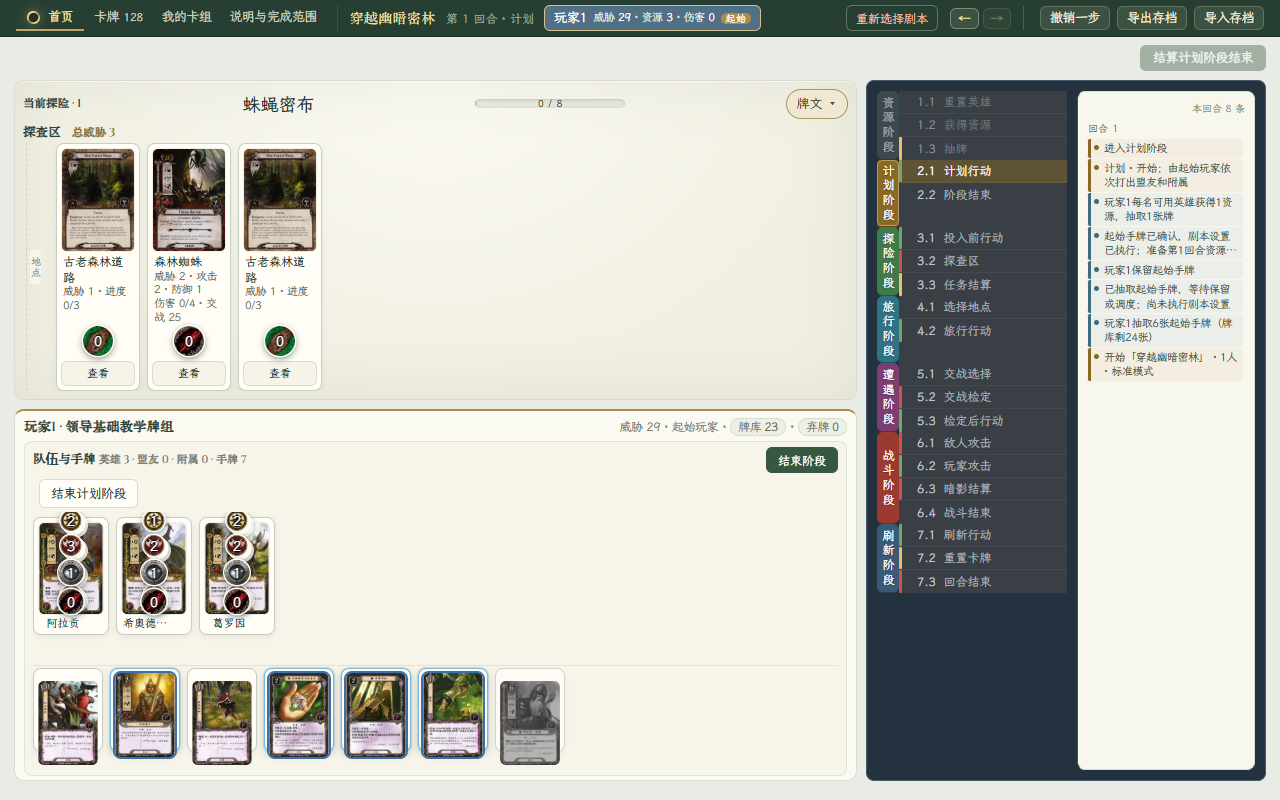
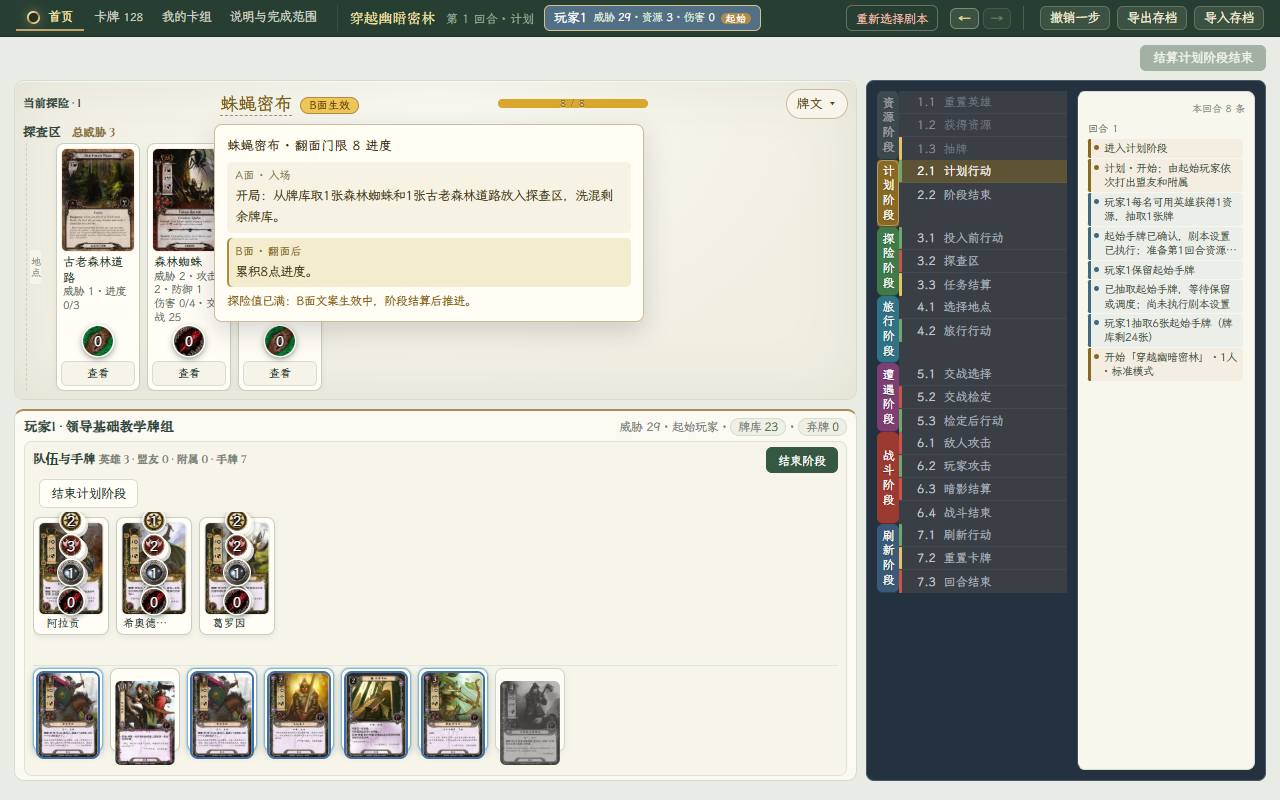
v0.15.90: 探险卡名悬浮牌文卡——悬停看两面文案，翻面达成亮金徽章
- 卡名（收起条+展开态标题）包进 .quest-name：悬停/键盘聚焦向下弹出 .quest-tip，
  展示卡名+翻面门限+A面入场+B面翻面后+状态行，当前生效面高亮；aria-label 带完整两面牌文
- 翻面条件（进度≥门限）达成时：迷你进度条转金（.full）+ 卡名旁「B面生效」金徽章
  + 悬浮卡状态行「探险值已满：B面文案生效中」+ 展开态金句
- 裁剪修复：public-table overflow-y:auto → 悬浮卡向下弹；29 段矮屏 overflow:hidden
  收窄到展开态（:not(.quest-collapsed)）；36 段 strong 省略号去掉 overflow:hidden
- check-table-slim 增补 E 组 5 项/档（真实悬停读几何）共 92 项；DOM 新用例 1 条；测试 499 项全过

diff --git a/index.html b/index.html
@@ -975,7 +975,7 @@ body:has(.desktop-table) .player-tabs button{height:36px;min-height:0;padding:2p
 /* 29. 矮屏探险区硬上限：卡片 54px 宽 → 76px 高 + 标题 18 + 进度 9 + 间距 ≈ 110，
        超出即裁掉（牌文与门限说明可点「查看」看全文）。 */
 @media(max-height:980px){
- .quest-zone{max-height:108px;overflow:hidden}
+ .quest-zone:not(.quest-collapsed){max-height:108px;overflow:hidden}
  .quest-display{align-items:center}
  .quest-zone .zone-heading{min-height:0}
 }
@@ -2009,7 +2009,7 @@ body:has(.desktop-table) .player-tabs button{height:36px;min-height:0;padding:2p
 .public-table>.quest-zone{flex:0 0 auto;min-height:0}
 .quest-collapsed .zone-heading{margin-bottom:0}
 .quest-head{flex-wrap:nowrap;gap:8px}
-.quest-head strong{min-width:0;white-space:nowrap;overflow:hidden;text-overflow:ellipsis}
+.quest-head strong{min-width:0;white-space:nowrap;overflow:visible}
 .quest-fold{flex:0 0 auto;min-height:0;padding:2px 9px;font-size:11px;line-height:1.5;
  border:1px solid #c9bd9c;border-radius:999px;background:#f7f5ea;color:#5c4a1e;cursor:pointer}
 .quest-fold:hover,.quest-fold:focus-visible{background:#efe8d2;border-color:#a8965f}
@@ -2020,6 +2020,29 @@ body:has(.desktop-table) .player-tabs button{height:36px;min-height:0;padding:2p
  flex:0 0 18px;width:18px;margin:0 5px 0 3px;border-left:1px dashed #cfd3c6}
 .public-table .table-card-row>.row-divider>span{writing-mode:vertical-rl;font-size:9.5px;letter-spacing:1.5px;line-height:1;
  color:#8a9184;background:#f7f5ea;padding:6px 1px;border-radius:2px}
+
+/* 37. v0.15.90 探险卡名悬浮牌文卡 + 翻面状态可视化。
+   悬停/键盘聚焦卡名向下弹出两面文案（public-table 是 overflow-y:auto，
+   向下弹落在表格内部不会被裁；29 段矮屏的 overflow:hidden 已收窄到展开态）。 */
+.quest-name{position:relative;display:inline-block;cursor:help;border-bottom:1px dashed #a8965f;outline:none}
+.quest-name:hover,.quest-name:focus-visible{color:#7a5a12}
+.quest-tip{display:none;position:absolute;z-index:40;top:calc(100% + 9px);left:-6px;
+ width:min(430px,calc(100vw - 64px));padding:10px 12px;text-align:left;white-space:normal;
+ background:#fffdf4;border:1px solid #c9bd9c;border-radius:8px;box-shadow:0 10px 26px #00000026;
+ font-size:12.5px;line-height:1.65;color:#4a3c1c}
+.quest-name:hover .quest-tip,.quest-name:focus-visible .quest-tip{display:block}
+.quest-tip-title{display:block;margin-bottom:6px;font-size:13px;color:#3c2f12;letter-spacing:.02em}
+.quest-tip-side{display:block;padding:5px 8px;border-radius:5px;background:#f6f2e4;margin-bottom:5px}
+.quest-tip-side i{display:block;font-style:normal;font-size:10.5px;letter-spacing:.08em;color:#8a7a4a;margin-bottom:2px}
+.quest-tip-side.on{background:#f3ecce;box-shadow:inset 2px 0 0 #b08d3e}
+.quest-tip-side.on i{color:#8a6a1e;font-weight:700}
+.quest-tip-note{display:block;margin-top:2px;font-size:11.5px;color:#7a6c42}
+.quest-tip-note.flip{color:#8a5a10;font-weight:700}
+.quest-flip-badge{display:inline-block;margin-left:8px;padding:1px 8px;font-size:10.5px;font-weight:700;
+ letter-spacing:.05em;color:#5c3d00;background:#f0c65a;border:1px solid #b08d3e;border-radius:999px;vertical-align:1px}
+.quest-flip-note{display:block;margin-top:6px;font-size:12px;font-weight:700;color:#8a5a10}
+.quest-progress-mini.full .quest-progress-fill{background:#d9a72e}
+.quest-progress-mini.full .quest-progress-label{color:#8a5a10;font-weight:700}
 
 </style></head><body>
 <header><nav><button id="tableTab" class="active nav-home" title="回到首页"><svg class="brand-mark" viewBox="0 0 64 64" aria-hidden="true" focusable="false"><defs><linearGradient id="brandGold" x1="10" y1="8" x2="54" y2="57" gradientUnits="userSpaceOnUse"><stop offset="0" stop-color="#fdf4cd"/><stop offset=".32" stop-color="#e3c47a"/><stop offset=".55" stop-color="#a9853f"/><stop offset=".78" stop-color="#e8cb86"/><stop offset="1" stop-color="#fffae0"/></linearGradient><radialGradient id="brandField" cx=".5" cy=".42" r=".58"><stop offset="0" stop-color="#8a4a16"/><stop offset=".46" stop-color="#4a2a10"/><stop offset="1" stop-color="#150e07"/></radialGradient></defs><circle cx="32" cy="32" r="21" fill="#0d1710" fill-opacity=".62"/><circle cx="32" cy="32" r="21" fill="none" stroke="url(#brandGold)" stroke-width="7"/><path d="M14.6 19.2A21 21 0 0 1 32.6 10.9" fill="none" stroke="#fffbe8" stroke-width="2.4" stroke-linecap="round" opacity=".55"/></svg>首页</button><button id="catalogTab">卡牌 <span>55</span></button><button id="decksTab">我的卡组</button><button id="helpTab">说明与完成范围</button></nav><div class="history-nav"><button id="navBack" type="button" title="后退" aria-label="后退">←</button><button id="navFwd" type="button" title="前进" aria-label="前进">→</button></div><div class="header-actions"><button id="undo">撤销一步</button><button id="export">导出存档</button><label class="button" for="import">导入存档</label><input id="import" type="file" accept="application/json" hidden></div><div id="gameHud" class="game-hud" hidden></div></header>
@@ -11191,7 +11214,7 @@ const WindowUI=(()=>{
 </script><script src="phase-log.js"></script><script>
 /* Tabletop view: UI drafts never pay, exhaust, reveal, or bypass phase validation. */
 /* 界面版本徽标唯一来源：须与 CHANGELOG.md 最新条目标题一致（planning-dom-tests 有校验）。 */
-const APP_VERSION='v0.15.89';
+const APP_VERSION='v0.15.90';
 /* ── 决策面板：一行触发条 + 非模态浮层（v0.15.81）─────────────────────
    形态演进：v0.15.62 浮动弹窗 → v0.15.76/79 内联公共桌面（常驻 96px 内容块）→ v0.15.81
    「一行触发条 + 非模态浮层」。用户报障「阶段窗口还在桌面上」：内联块把 .decide-box 撑到
@@ -11705,22 +11728,45 @@ function dockHTML(s,p,m){
    进度条仍可见；卡图/牌文/门限点「牌文 ▾」展开。开局设置与开局翻牌阶段强制展开
    （那两步必须读剧本牌文）。开合是纯视图操作（app.js 的 questZone 动作翻转
    questZoneOpen），不进撤销历史、不写存档。 */
+/* v0.15.90：探险卡名悬浮牌文卡——悬停或键盘聚焦卡名，向下弹出 A/B 两面文案。
+   翻面条件（进度 ≥ 门限）达成时：迷你进度条转金、卡名旁亮「B面生效」徽章、
+   悬浮卡状态行说明 B 面生效中，展开态再补一句金句。纯视图，不改引擎。 */
+function questFlipReady(s,q){return !!q.points&&s.progress>=q.points;}
+function questTipHTML(s,q){
+ const flip=questFlipReady(s,q);
+ const status=s.setupPending?'开局设置阶段：A面（入场效果）生效。'
+  :flip?'探险值已满：B面文案生效中，阶段结算后推进。'
+  :(q.points?'累积 '+q.points+' 点进度后翻面，B面文案生效。':'特殊胜利条件，无进度门限。');
+ return '<span class="quest-tip" role="tooltip">'
+  +'<b class="quest-tip-title">'+esc(q.name)+(q.points?' · 翻面门限 '+q.points+' 进度':' · 特殊胜利条件')+'</b>'
+  +'<span class="quest-tip-side'+(s.setupPending?' on':'')+'"><i>A面 · 入场</i>'+esc(q.front)+'</span>'
+  +'<span class="quest-tip-side'+(!s.setupPending?' on':'')+'"><i>B面 · 翻面后</i>'+esc(q.back)+'</span>'
+  +'<span class="quest-tip-note'+(flip?' flip':'')+'">'+esc(status)+'</span></span>';
+}
+function questNameHTML(s,q){
+ const flip=questFlipReady(s,q);
+ return '<span class="quest-name" tabindex="0" aria-label="'+esc(q.name+'。A面入场：'+q.front+'。B面翻面后：'+q.back)+'">'
+  +esc(q.name)+questTipHTML(s,q)+'</span>'
+  +(flip?'<b class="quest-flip-badge">B面生效</b>':'');
+}
 function questZoneHTML(s,q,m){
  const open=s.setupPending||setupPendingReveal(s)||questZoneOpenFlag();
+ const flip=questFlipReady(s,q);
  const fold=open
   ?'<button class="quest-fold" data-action="questZone" aria-expanded="true" title="收起探险区，把高度让给探查区">收起 ▴</button>'
   :'<button class="quest-fold" data-action="questZone" aria-expanded="false" title="展开探险区：查看剧本牌文与门限">牌文 ▾</button>';
  const head='<div class="zone-heading quest-head"><h2>当前探险 · '+esc(q.stage)+'</h2>'
   +(open
     ?'<strong>'+(q.points?s.progress+' / '+q.points+' 进度':'特殊胜利条件')+'</strong>'
-    :'<strong>'+esc(q.name)+'</strong>'
-     +(q.points?'<div class="quest-progress quest-progress-mini" role="progressbar" aria-label="探险进度" aria-valuemin="0" aria-valuemax="'+q.points+'" aria-valuenow="'+s.progress+'"><div class="quest-progress-fill" style="width:'+Math.min(100,Math.round(s.progress/q.points*100))+'%"></div><span class="quest-progress-label">'+s.progress+' / '+q.points+'</span></div>':''))
+    :'<strong>'+questNameHTML(s,q)+'</strong>'
+     +(q.points?'<div class="quest-progress quest-progress-mini'+(flip?' full':'')+'" role="progressbar" aria-label="探险进度" aria-valuemin="0" aria-valuemax="'+q.points+'" aria-valuenow="'+s.progress+'"><div class="quest-progress-fill" style="width:'+Math.min(100,Math.round(s.progress/q.points*100))+'%"></div><span class="quest-progress-label">'+s.progress+' / '+q.points+'</span></div>':''))
   +fold+'</div>';
  if(!open)return '<section class="table-zone quest-zone quest-collapsed">'+head+'</section>';
  return '<section class="table-zone quest-zone">'+head
   +'<div class="quest-display"><div class="quest-art-wrap">'+ImageLibrary.art('enc-'+q.id,'',s.setupPending?'A':'B')
   +(q.points?'<div class="card-tokens quest-tokens" aria-hidden="true">'+tk('progress',s.progress)+'</div>':'')
-  +'</div><div><h3>'+esc(q.name)+'</h3><p>'+esc(s.setupPending?q.front:q.back)+'</p><span class="small muted">'+esc(E.gate(s)||'满足条件后由规则自动推进')+'</span></div></div>'
+  +'</div><div><h3>'+questNameHTML(s,q)+'</h3><p>'+esc(s.setupPending?q.front:q.back)+'</p><span class="small muted">'+esc(E.gate(s)||'满足条件后由规则自动推进')+'</span>'
+  +(flip?'<b class="quest-flip-note">探险值已满 · B面文案生效中</b>':'')+'</div></div>'
   +(q.points?'<div class="quest-progress" role="progressbar" aria-label="探险进度" aria-valuemin="0" aria-valuemax="'+q.points+'" aria-valuenow="'+s.progress+'"><div class="quest-progress-fill" style="width:'+Math.min(100,Math.round(s.progress/q.points*100))+'%"></div><span class="quest-progress-label">'+s.progress+' / '+q.points+'</span></div>':'')
   +'</section>';
 }

diff --git a/desktop-ui.js b/desktop-ui.js
@@ -1,6 +1,6 @@
 /* Tabletop view: UI drafts never pay, exhaust, reveal, or bypass phase validation. */
 /* 界面版本徽标唯一来源：须与 CHANGELOG.md 最新条目标题一致（planning-dom-tests 有校验）。 */
-const APP_VERSION='v0.15.89';
+const APP_VERSION='v0.15.90';
 /* ── 决策面板：一行触发条 + 非模态浮层（v0.15.81）─────────────────────
    形态演进：v0.15.62 浮动弹窗 → v0.15.76/79 内联公共桌面（常驻 96px 内容块）→ v0.15.81
    「一行触发条 + 非模态浮层」。用户报障「阶段窗口还在桌面上」：内联块把 .decide-box 撑到
@@ -514,22 +514,45 @@ function dockHTML(s,p,m){
    进度条仍可见；卡图/牌文/门限点「牌文 ▾」展开。开局设置与开局翻牌阶段强制展开
    （那两步必须读剧本牌文）。开合是纯视图操作（app.js 的 questZone 动作翻转
    questZoneOpen），不进撤销历史、不写存档。 */
+/* v0.15.90：探险卡名悬浮牌文卡——悬停或键盘聚焦卡名，向下弹出 A/B 两面文案。
+   翻面条件（进度 ≥ 门限）达成时：迷你进度条转金、卡名旁亮「B面生效」徽章、
+   悬浮卡状态行说明 B 面生效中，展开态再补一句金句。纯视图，不改引擎。 */
+function questFlipReady(s,q){return !!q.points&&s.progress>=q.points;}
+function questTipHTML(s,q){
+ const flip=questFlipReady(s,q);
+ const status=s.setupPending?'开局设置阶段：A面（入场效果）生效。'
+  :flip?'探险值已满：B面文案生效中，阶段结算后推进。'
+  :(q.points?'累积 '+q.points+' 点进度后翻面，B面文案生效。':'特殊胜利条件，无进度门限。');
+ return '<span class="quest-tip" role="tooltip">'
+  +'<b class="quest-tip-title">'+esc(q.name)+(q.points?' · 翻面门限 '+q.points+' 进度':' · 特殊胜利条件')+'</b>'
+  +'<span class="quest-tip-side'+(s.setupPending?' on':'')+'"><i>A面 · 入场</i>'+esc(q.front)+'</span>'
+  +'<span class="quest-tip-side'+(!s.setupPending?' on':'')+'"><i>B面 · 翻面后</i>'+esc(q.back)+'</span>'
+  +'<span class="quest-tip-note'+(flip?' flip':'')+'">'+esc(status)+'</span></span>';
+}
+function questNameHTML(s,q){
+ const flip=questFlipReady(s,q);
+ return '<span class="quest-name" tabindex="0" aria-label="'+esc(q.name+'。A面入场：'+q.front+'。B面翻面后：'+q.back)+'">'
+  +esc(q.name)+questTipHTML(s,q)+'</span>'
+  +(flip?'<b class="quest-flip-badge">B面生效</b>':'');
+}
 function questZoneHTML(s,q,m){
  const open=s.setupPending||setupPendingReveal(s)||questZoneOpenFlag();
+ const flip=questFlipReady(s,q);
  const fold=open
   ?'<button class="quest-fold" data-action="questZone" aria-expanded="true" title="收起探险区，把高度让给探查区">收起 ▴</button>'
   :'<button class="quest-fold" data-action="questZone" aria-expanded="false" title="展开探险区：查看剧本牌文与门限">牌文 ▾</button>';
  const head='<div class="zone-heading quest-head"><h2>当前探险 · '+esc(q.stage)+'</h2>'
   +(open
     ?'<strong>'+(q.points?s.progress+' / '+q.points+' 进度':'特殊胜利条件')+'</strong>'
-    :'<strong>'+esc(q.name)+'</strong>'
-     +(q.points?'<div class="quest-progress quest-progress-mini" role="progressbar" aria-label="探险进度" aria-valuemin="0" aria-valuemax="'+q.points+'" aria-valuenow="'+s.progress+'"><div class="quest-progress-fill" style="width:'+Math.min(100,Math.round(s.progress/q.points*100))+'%"></div><span class="quest-progress-label">'+s.progress+' / '+q.points+'</span></div>':''))
+    :'<strong>'+questNameHTML(s,q)+'</strong>'
+     +(q.points?'<div class="quest-progress quest-progress-mini'+(flip?' full':'')+'" role="progressbar" aria-label="探险进度" aria-valuemin="0" aria-valuemax="'+q.points+'" aria-valuenow="'+s.progress+'"><div class="quest-progress-fill" style="width:'+Math.min(100,Math.round(s.progress/q.points*100))+'%"></div><span class="quest-progress-label">'+s.progress+' / '+q.points+'</span></div>':''))
   +fold+'</div>';
  if(!open)return '<section class="table-zone quest-zone quest-collapsed">'+head+'</section>';
  return '<section class="table-zone quest-zone">'+head
   +'<div class="quest-display"><div class="quest-art-wrap">'+ImageLibrary.art('enc-'+q.id,'',s.setupPending?'A':'B')
   +(q.points?'<div class="card-tokens quest-tokens" aria-hidden="true">'+tk('progress',s.progress)+'</div>':'')
-  +'</div><div><h3>'+esc(q.name)+'</h3><p>'+esc(s.setupPending?q.front:q.back)+'</p><span class="small muted">'+esc(E.gate(s)||'满足条件后由规则自动推进')+'</span></div></div>'
+  +'</div><div><h3>'+questNameHTML(s,q)+'</h3><p>'+esc(s.setupPending?q.front:q.back)+'</p><span class="small muted">'+esc(E.gate(s)||'满足条件后由规则自动推进')+'</span>'
+  +(flip?'<b class="quest-flip-note">探险值已满 · B面文案生效中</b>':'')+'</div></div>'
   +(q.points?'<div class="quest-progress" role="progressbar" aria-label="探险进度" aria-valuemin="0" aria-valuemax="'+q.points+'" aria-valuenow="'+s.progress+'"><div class="quest-progress-fill" style="width:'+Math.min(100,Math.round(s.progress/q.points*100))+'%"></div><span class="quest-progress-label">'+s.progress+' / '+q.points+'</span></div>':'')
   +'</section>';
 }

diff --git a/style.css b/style.css
@@ -973,7 +973,7 @@ body:has(.desktop-table) .player-tabs button{height:36px;min-height:0;padding:2p
 /* 29. 矮屏探险区硬上限：卡片 54px 宽 → 76px 高 + 标题 18 + 进度 9 + 间距 ≈ 110，
        超出即裁掉（牌文与门限说明可点「查看」看全文）。 */
 @media(max-height:980px){
- .quest-zone{max-height:108px;overflow:hidden}
+ .quest-zone:not(.quest-collapsed){max-height:108px;overflow:hidden}
  .quest-display{align-items:center}
  .quest-zone .zone-heading{min-height:0}
 }
@@ -2007,7 +2007,7 @@ body:has(.desktop-table) .player-tabs button{height:36px;min-height:0;padding:2p
 .public-table>.quest-zone{flex:0 0 auto;min-height:0}
 .quest-collapsed .zone-heading{margin-bottom:0}
 .quest-head{flex-wrap:nowrap;gap:8px}
-.quest-head strong{min-width:0;white-space:nowrap;overflow:hidden;text-overflow:ellipsis}
+.quest-head strong{min-width:0;white-space:nowrap;overflow:visible}
 .quest-fold{flex:0 0 auto;min-height:0;padding:2px 9px;font-size:11px;line-height:1.5;
  border:1px solid #c9bd9c;border-radius:999px;background:#f7f5ea;color:#5c4a1e;cursor:pointer}
 .quest-fold:hover,.quest-fold:focus-visible{background:#efe8d2;border-color:#a8965f}
@@ -2018,3 +2018,26 @@ body:has(.desktop-table) .player-tabs button{height:36px;min-height:0;padding:2p
  flex:0 0 18px;width:18px;margin:0 5px 0 3px;border-left:1px dashed #cfd3c6}
 .public-table .table-card-row>.row-divider>span{writing-mode:vertical-rl;font-size:9.5px;letter-spacing:1.5px;line-height:1;
  color:#8a9184;background:#f7f5ea;padding:6px 1px;border-radius:2px}
+
+/* 37. v0.15.90 探险卡名悬浮牌文卡 + 翻面状态可视化。
+   悬停/键盘聚焦卡名向下弹出两面文案（public-table 是 overflow-y:auto，
+   向下弹落在表格内部不会被裁；29 段矮屏的 overflow:hidden 已收窄到展开态）。 */
+.quest-name{position:relative;display:inline-block;cursor:help;border-bottom:1px dashed #a8965f;outline:none}
+.quest-name:hover,.quest-name:focus-visible{color:#7a5a12}
+.quest-tip{display:none;position:absolute;z-index:40;top:calc(100% + 9px);left:-6px;
+ width:min(430px,calc(100vw - 64px));padding:10px 12px;text-align:left;white-space:normal;
+ background:#fffdf4;border:1px solid #c9bd9c;border-radius:8px;box-shadow:0 10px 26px #00000026;
+ font-size:12.5px;line-height:1.65;color:#4a3c1c}
+.quest-name:hover .quest-tip,.quest-name:focus-visible .quest-tip{display:block}
+.quest-tip-title{display:block;margin-bottom:6px;font-size:13px;color:#3c2f12;letter-spacing:.02em}
+.quest-tip-side{display:block;padding:5px 8px;border-radius:5px;background:#f6f2e4;margin-bottom:5px}
+.quest-tip-side i{display:block;font-style:normal;font-size:10.5px;letter-spacing:.08em;color:#8a7a4a;margin-bottom:2px}
+.quest-tip-side.on{background:#f3ecce;box-shadow:inset 2px 0 0 #b08d3e}
+.quest-tip-side.on i{color:#8a6a1e;font-weight:700}
+.quest-tip-note{display:block;margin-top:2px;font-size:11.5px;color:#7a6c42}
+.quest-tip-note.flip{color:#8a5a10;font-weight:700}
+.quest-flip-badge{display:inline-block;margin-left:8px;padding:1px 8px;font-size:10.5px;font-weight:700;
+ letter-spacing:.05em;color:#5c3d00;background:#f0c65a;border:1px solid #b08d3e;border-radius:999px;vertical-align:1px}
+.quest-flip-note{display:block;margin-top:6px;font-size:12px;font-weight:700;color:#8a5a10}
+.quest-progress-mini.full .quest-progress-fill{background:#d9a72e}
+.quest-progress-mini.full .quest-progress-label{color:#8a5a10;font-weight:700}

diff --git a/PROJECT_MEMORY.md b/PROJECT_MEMORY.md
@@ -5,7 +5,8 @@
 ## 当前基线
 
 - 离线网页版魔戒 LCG 桌面，原版基础版普通模式、三个独立剧本、1–4人同机。
-- 游戏版本 v0.15.89（2026-10-29，分支 `feature/setup-cancel-scoring`）。v0.15.82 起推进：
+- 游戏版本 v0.15.90（2026-10-29，分支 `feature/setup-cancel-scoring`）。v0.15.82 起推进：
+  - **v0.15.90**：探险卡名悬浮牌文卡 + 翻面状态可视化。卡名（收起条与展开态标题）包进 `.quest-name{tabindex=0}`，悬停/键盘聚焦向下弹出 `.quest-tip`（宽 min(430px,100vw−64px)，内容=卡名+门限+A面入场+B面翻面后+状态行，生效面高亮；`aria-label` 带完整两面牌文）。**翻面条件（进度≥门限）达成时**：迷你进度条 `.full` 转金、卡名旁 `.quest-flip-badge`「B面生效」徽章、悬浮卡状态行切「探险值已满：B面文案生效中」、展开态追加 `.quest-flip-note`。**裁剪坑**：`.public-table` 是 `overflow-y:auto` → 悬浮卡必须向下弹（落表格内部）；29 段矮屏 `.quest-zone{max-height:108px;overflow:hidden}` 收窄到 `:not(.quest-collapsed)`；36 段 `.quest-head strong` 的 `overflow:hidden` 省略号会剪悬浮卡，去掉（改 `overflow:visible`）。check-table-slim 增补 E 组 5 项/档（真实 page.hover 后读几何）共 92 项；测试 499 项。
   - **v0.15.89**：牌桌区瘦身——探险区默认收成一行触发条（「当前探险 · 阶段」+ 阶段卡名 + 迷你进度条 + 「牌文 ▾」，整块 ≈26px），卡图/牌文/门限点开才渲染；开局设置与开局翻牌窗口（`s.setupPending || setupPendingReveal(s)`）强制展开。开合是纯视图操作：`app.js` `let questZoneOpen` + `APP_QUEST_ZONE_OPEN()` 桥接（同 railOpen 模式），`questZone` 动作翻转后 render，不进撤销历史。**地点卡搬家**：`.quest-location-row` 包装层退役，「当前地点」卡带竖排「地点」`.row-divider` 并入探查区行首（画法同 22b 交战分隔）；`row(…,'staging-zone')` 给探查区加了可测类名。**CSS 坑**：quest-zone 成为 `.public-table` 直接子级后，必须用 `.public-table>.quest-zone{flex:0 0 auto;min-height:0}` 退出 24/25 段「分区吃满剩余 + min-height:106px」的 flex 分配，否则收起了也占 106px。探查区是 `flex:1` 弹性区且 34 段同行等高（`align-items:stretch`），地点卡会被拉到与行同高、矮档行框可内滚——验收测「分隔与卡等高」而不是行高上限。收起条显示的是**当前阶段卡名**（如蛛蝇密布），不是剧本名。新增 `scripts/check-table-slim.cjs` 68 项（四档：开局强制展开/默认收起/地点合并/展开收起往返/无溢出/手牌在视口）；进度代币用例改为先 `questZoneOpen=true` 再断言；check-onescreen 探针 `.active-zone`→`.staging-zone`。测试 498 项。
   - **v0.15.88**：顶栏收成一行——剧本/回合/阶段 HUD 与玩家标签、「重新选择剧本」并入 `header` 导航行（`#gameHud` 不再 `flex-basis:100%` 独占第二行，顶栏总高 101px→37px，四档 1920/1440/1366/1280 实测）；操作条撤掉「本阶段说明」与品牌行 `MIDDLE-EARTH EXPEDITION · vX`（提示语降级为 `.operation-dock` 的 aria-label/title，`.operation-dock` 无决策内容时 `:has(:not(:empty))` 收成一行、padding 归零；说明页版本徽标改由 `APP_VERSION` 注入，桌面不再硬编码）。≥1280 桌面档单行排布规则：剧本名 `min-width:10ch` 可收缩省略、`hud-meta`/玩家标签不收缩、标签区 `overflow-x:auto` 横向滚动（4 人局 1280 下不折行）、导航/撤销/导出/重选剧本 `flex:0 0 auto`。新增 `scripts/check-hud-row.cjs` 69 项（四档单行/高度/无横向溢出/公共牌桌高度 + 四人局不折行 + 结束态仍在）。check-taskbar 改读 dock `aria-label` 容忍空操作条；「第 6/7 阶段」类断言改为「第 N 回合 · 战斗」（阶段指示在 HUD）。
   - **v0.15.82–87**（详见 CHANGELOG）：「放弃本窗口行动」合并进主推进按钮；战斗防御/攻击改浮层内缩略图选人（攻击=左右两栏，上下堆叠会溢出）；浮层卡图收成 `--card-w` 缩略图（`.decide-body .card-art` 浮动，**面板搬进 decide-pop 后旧 `.operation-content` 后代选择器全部静默失效**）；抽牌浮层只在真抽牌时弹（`mutate()` 比对 `resourceDraw.id` 记 `pendingDrawId`，**勿改回 localStorage——id 取自 s.serial 每局重计会撞号**）；空态卡/步骤圆点/草稿数值代币化（`.pick-void`/`.pick-step-dot`/`.draft-chip`）；玩家区瘦身：附属=宿主卡卡名旁 15×19 徽章（0,4,1 特异性压过 caption span 隐藏）、交战=并入 `.own-characters` 同行、手牌 `margin-top:auto` 贴底，**桌面玩家区是固定窄带 clamp(340px,50vh,470px)，行数不得随状态增长**，矮屏档 `@media(min-width:1280px) and (max-height:820px)` 收卡面。新增 check-decide-art(16×4)/check-draw-toast(11)/check-pick-graphic(33/33/28)/check-mat-layout(26×4 六态)。
@@ -22,7 +23,7 @@
 - 二次确认引擎总体语义（v0.15.62 起）：`propose` 暂定 → 全员 `approve` → 锁定执行；v0.15.66 起纯空操作短路；v0.15.67 起无决策点玩家按空确认处理。
 - 工程注意：所有引擎/UI 代码在 index.html 有内联副本，任何修改必须对两个文件做相同替换（python 脚本 + `assert count==1`）；DOM 连续点击须每次重新查询节点（render 会替换 DOM）。
 - 此前 v0.15.42：远征日志重构为「阶段色带 + 按阶段着色 + 单条回退」；此前 v0.15.41 单屏四区布局、v0.15.19 开局页对比度修正；开局页卡片文字对比度修正（2.66→5.91:1）并把开局页纳入对比度验收；七个浏览器验收脚本改为跨平台浏览器探测。此前 v0.15.18：新增卡牌悬停放大预览（card-hover-preview.js，真实浏览器 26 项验收）；此前 v0.14.2：v0.14.0 桌面改版＋真实浏览器验收＋派遣提交自动切换视图＋卡图全量本地化（v0.14.1/0.14.2）；七阶段框架、回合循环及智能普通行动窗口；保留开局迁移限制。
-- 最近验证：498 项 Node 规则／模拟 DOM 测试通过（2026-10-29，v0.15.89）；同日真实浏览器（本机 Chrome 无头）验收：check-table-slim 68 项（四档，v0.15.89 牌桌瘦身）、check-hud-row 69、check-layout 17、check-mat-layout 26、check-quest-panel 40、check-quest-r0 30、check-taskbar 24、check-pick-graphic 33、browser-check ok=true，全套绿，详见 tabletop-acceptance.md 与 docs/browser-acceptance/。
+- 最近验证：499 项 Node 规则／模拟 DOM 测试通过（2026-10-29，v0.15.90）；同日真实浏览器（本机 Chrome 无头）验收：check-table-slim 92 项（四档，v0.15.89 瘦身 + v0.15.90 悬浮卡/翻面态）、check-hud-row 69、check-layout 17、check-mat-layout 26、check-quest-panel 40、check-quest-r0 30、check-taskbar 24、check-pick-graphic 33、browser-check ok=true，全套绿，详见 tabletop-acceptance.md 与 docs/browser-acceptance/。
 - 卡图已全量本地化：ringsdb.com／hallofbeorn.com 国内被墙，1511张引用卡图镜像为 assets 下 WebP（约96MB），local-image-map.js 映射，页面不再发出外网图片请求；维护脚本 scripts/fetch-card-images.py＋scripts/optimize-card-images.py（需代理）。
 - 包含73种基础英雄／玩家牌本地中文卡图；45种遭遇、10张双面探险卡机制说明。其他扩展主要用于资料／图片查询。
 - 外部游戏资料使用 RingsDB 快照；工作中文释义不是官方译文。

diff --git a/CHANGELOG.md b/CHANGELOG.md
@@ -1,3 +1,24 @@
+# v0.15.90 · 探险卡名悬浮牌文卡：悬停看两面文案，翻面达成有金色徽章（2026-10-29）
+
+v0.15.89 把探险区收成一行后，卡名「蛛蝇密布」只剩一个词——想知道它到底怎么运作得点开「牌文 ▾」。
+这一版把牌文变成即指即显：**悬停（或 Tab 聚焦）卡名，向下弹出一张悬浮卡**，
+同时把「探险值攒够、该翻面了」从隐式状态变成显式标记。
+
+**改动**：
+1. **卡名悬浮牌文卡**：收起条与展开态标题里的卡名包进 `.quest-name`，悬停/键盘聚焦弹出 `.quest-tip`
+   （宽 min(430px, 100vw−64px)，向下弹落在 `.public-table` 内部，避开它的 `overflow-y:auto` 裁剪）。
+   内容 = 卡名 + 翻面门限 + A面（入场效果）+ B面（翻面后文案）+ 状态行；当前生效的一面高亮。
+   卡名带 `aria-label`（完整两面牌文）供读屏，`tabindex=0` 供键盘触达。
+2. **翻面状态可视化**（进度 ≥ 门限时，不靠悬停也能看见）：
+   迷你进度条转金（`.full`）、卡名旁亮出「B面生效」金徽章、悬浮卡状态行说明
+   「探险值已满：B面文案生效中」，展开态追加金句「探险值已满 · B面文案生效中」。
+3. 29 段矮屏 `.quest-zone{max-height:108px;overflow:hidden}` 收窄到展开态
+   （`:not(.quest-collapsed)`），否则悬浮卡会被收起条裁掉；36 段 `strong` 去掉
+   `overflow:hidden` 省略号（同理会剪悬浮卡，卡名本身很短不需要）。
+
+**测试**：planning-dom-tests 新用例（悬浮卡两面原文、aria-label、翻面徽章/金条/状态行）；
+check-table-slim 增补 E 组 5 项/档（悬停弹出、落在 public-table 内、不越视口、翻面态徽章+金条）。
+
 # v0.15.89 · 牌桌区瘦身：探险区收成一行触发条，地点卡并入探查区行首（2026-10-29）
 
 v0.15.87/88 依次收了玩家区与顶栏，公共牌桌顶部还剩最后一块常驻大件——
